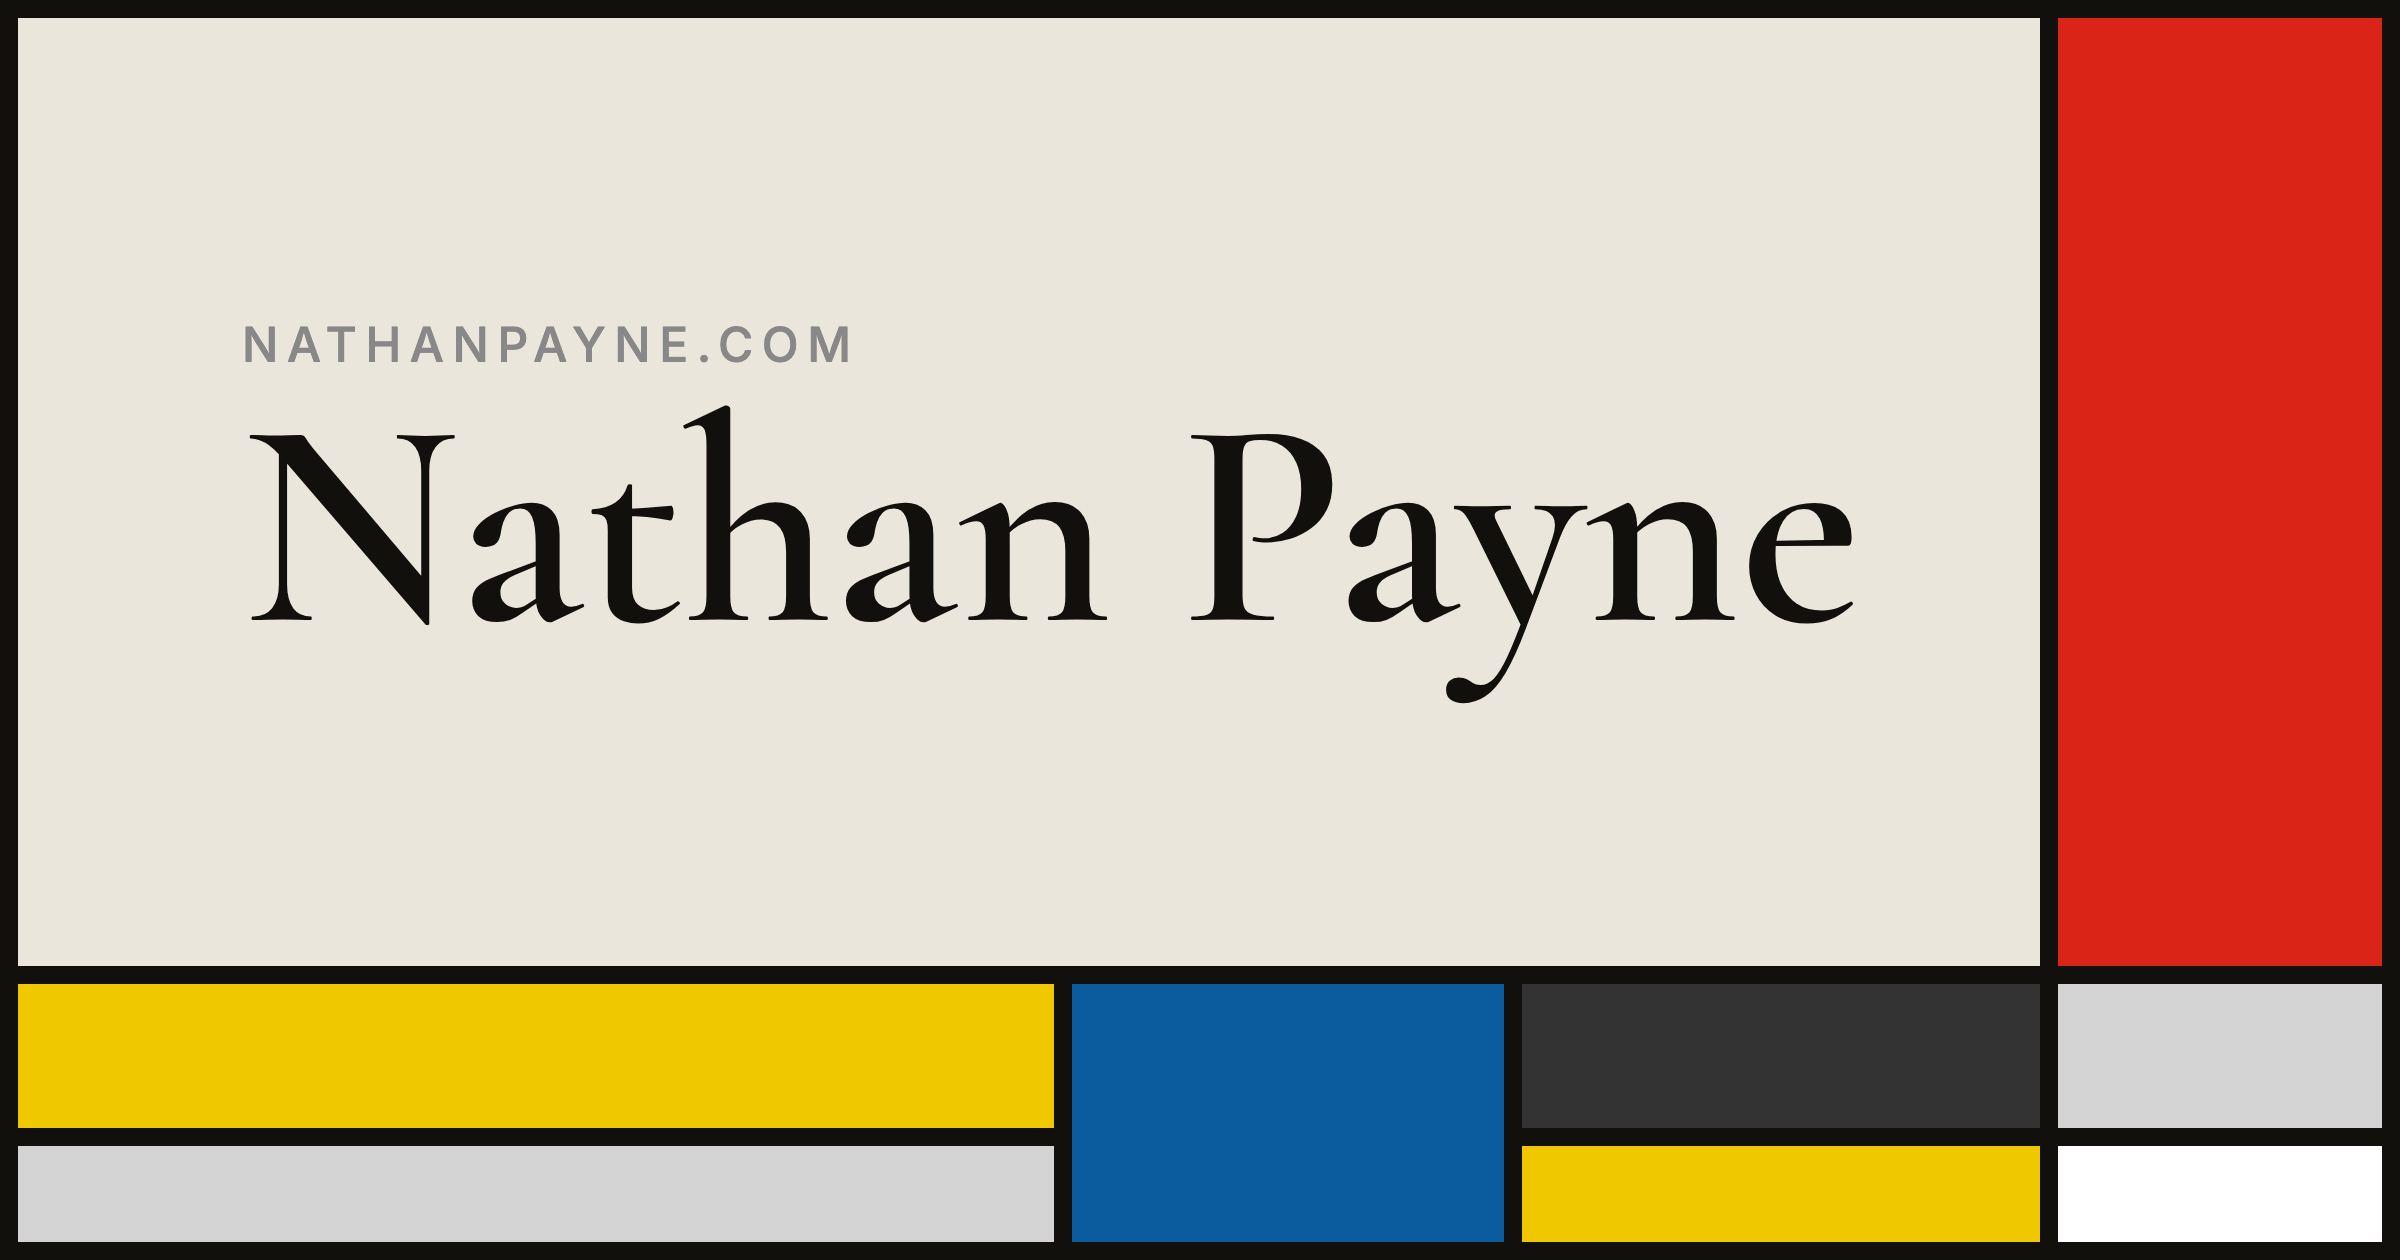
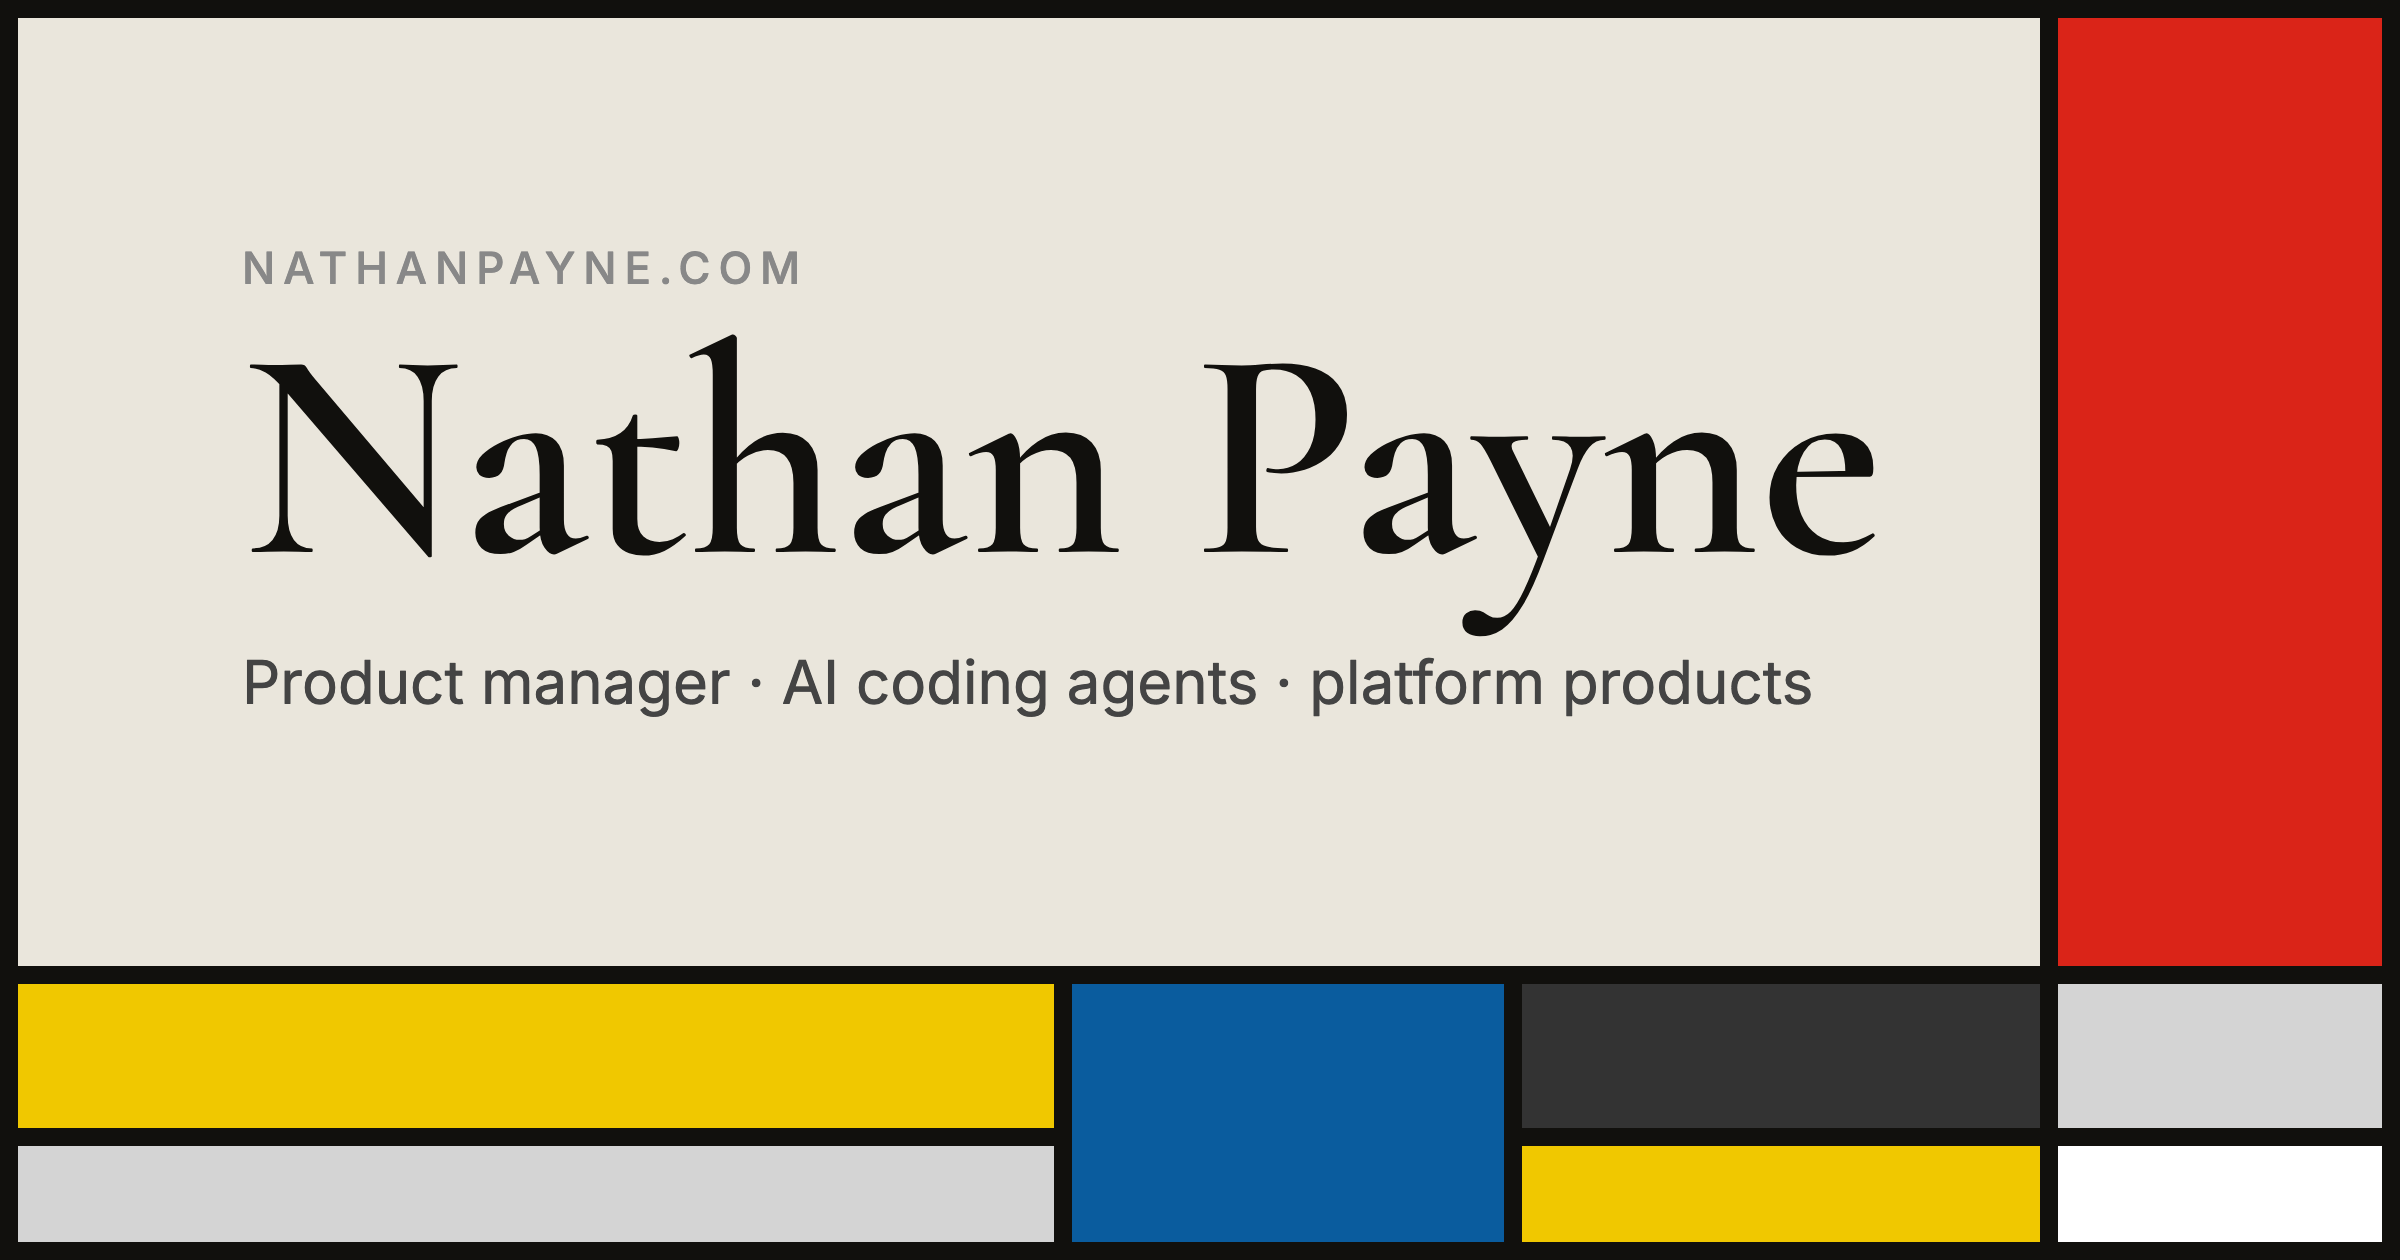
Bring back a one-line tagline on the homepage OG card
The name-only card read as bare. The bleed variant now styles the
description as a single 30px nowrap line under a 150px name, and the
homepage card passes "Product manager · AI coding agents · platform
products". The test caps the tagline at 60 characters: the fit gate
checks vertical clearance only, so a horizontal overflow would clip
silently.

Changed region(s): [[0.0938, 0.1857, 0.4688, 0.4952], [0.0938, 0.2786, 0.7812, 0.5571], [0.0938, 0.4333, 0.125, 0.4952]]

diff --git a/src/styles/global.css b/src/styles/global.css
@@ -4055,8 +4055,8 @@ a.tag:hover {
 /* Crop-safe variant (OgCard `bleed`). Safari's Start Page tiles aspect-fill
    the card into ~1.67:1, trimming ~6% (~75px here) off each side, and show it
    ~225pt wide. So: no stage margin or shadow to get sliced, a wider red
-   column that survives the trim, a left inset deeper than the trim, and a
-   heading big enough to read at tile size. */
+   column that survives the trim, a left inset deeper than the trim, a
+   heading big enough to read at tile size, and at most a one-line tagline. */
 .og-shell--bleed {
   padding: 0;
 }
@@ -4075,15 +4075,24 @@ a.tag:hover {
 }
 
 .og-shell--bleed .og-label {
-  font-size: 24px;
-  margin-bottom: 6px;
+  font-size: 22px;
+  margin-bottom: 10px;
 }
 
 .og-shell--bleed .og-heading {
-  font-size: 148px;
+  font-size: 150px;
   line-height: 0.95;
-  margin: 0;
+  margin: 0 0 22px;
   white-space: nowrap;
+}
+
+/* One line, so it reads as a tagline rather than a paragraph shrunk to
+   tile size. Keep the homepage tagline short enough to fit unwrapped. */
+.og-shell--bleed .og-description {
+  font-size: 30px;
+  max-width: none;
+  white-space: nowrap;
+  color: #444;
 }
 
 /* ── Blog Post: Mondrian "Composition with Margins" Canvas ────

diff --git a/tests/og-card-bleed.test.js b/tests/og-card-bleed.test.js
@@ -18,11 +18,16 @@ describe('OG card bleed variant', () => {
     expect(source).toMatch(/'og-shell--bleed':\s*bleed/);
   });
 
-  it('renders the homepage card as bleed, name only', () => {
+  it('renders the homepage card as bleed with a one-line tagline', () => {
     const source = readFileSync(HOME_TEMPLATE, 'utf-8');
 
     expect(source).toMatch(/^\s*bleed\s*$/m);
-    expect(source).not.toMatch(/description=/);
+    // The bleed tagline is `white-space: nowrap` inside an `overflow: hidden`
+    // box, so a long one would be clipped silently rather than wrap. 60
+    // characters fits the 1200px card at 30px Inter with room to spare.
+    const tagline = source.match(/description="([^"]*)"/);
+    expect(tagline).not.toBeNull();
+    expect(tagline[1].length).toBeLessThanOrEqual(60);
   });
 
   it("keeps the bleed text inset deeper than Safari's side trim", () => {

diff --git a/docs/css-architecture.md b/docs/css-architecture.md
@@ -98,7 +98,7 @@ represents a page: `og-templates/home.astro` passes `palette="1930"` to
 `OgCard.astro`, so `home.png` matches the homepage register. Other OG cards do
 not pass a palette and stay on the 1921 `:root` default.
 
-The homepage card also passes `bleed`, which runs the frame to the image edges and sets the name at 148px with no description. Safari's Start Page tiles crop OG images to about 1.67:1 and show them about 225pt wide, which sliced the framed card and made its description unreadable. The description still reaches previews through `og:description`.
+The homepage card also passes `bleed`, which runs the frame to the image edges, sets the name at 150px, and replaces the three-line description with a one-line tagline. Safari's Start Page tiles crop OG images to about 1.67:1 and show them about 225pt wide, which sliced the framed card and made its description unreadable. The full description still reaches previews through `og:description`.
 
 | Page | Accent source |
 |---|---|
